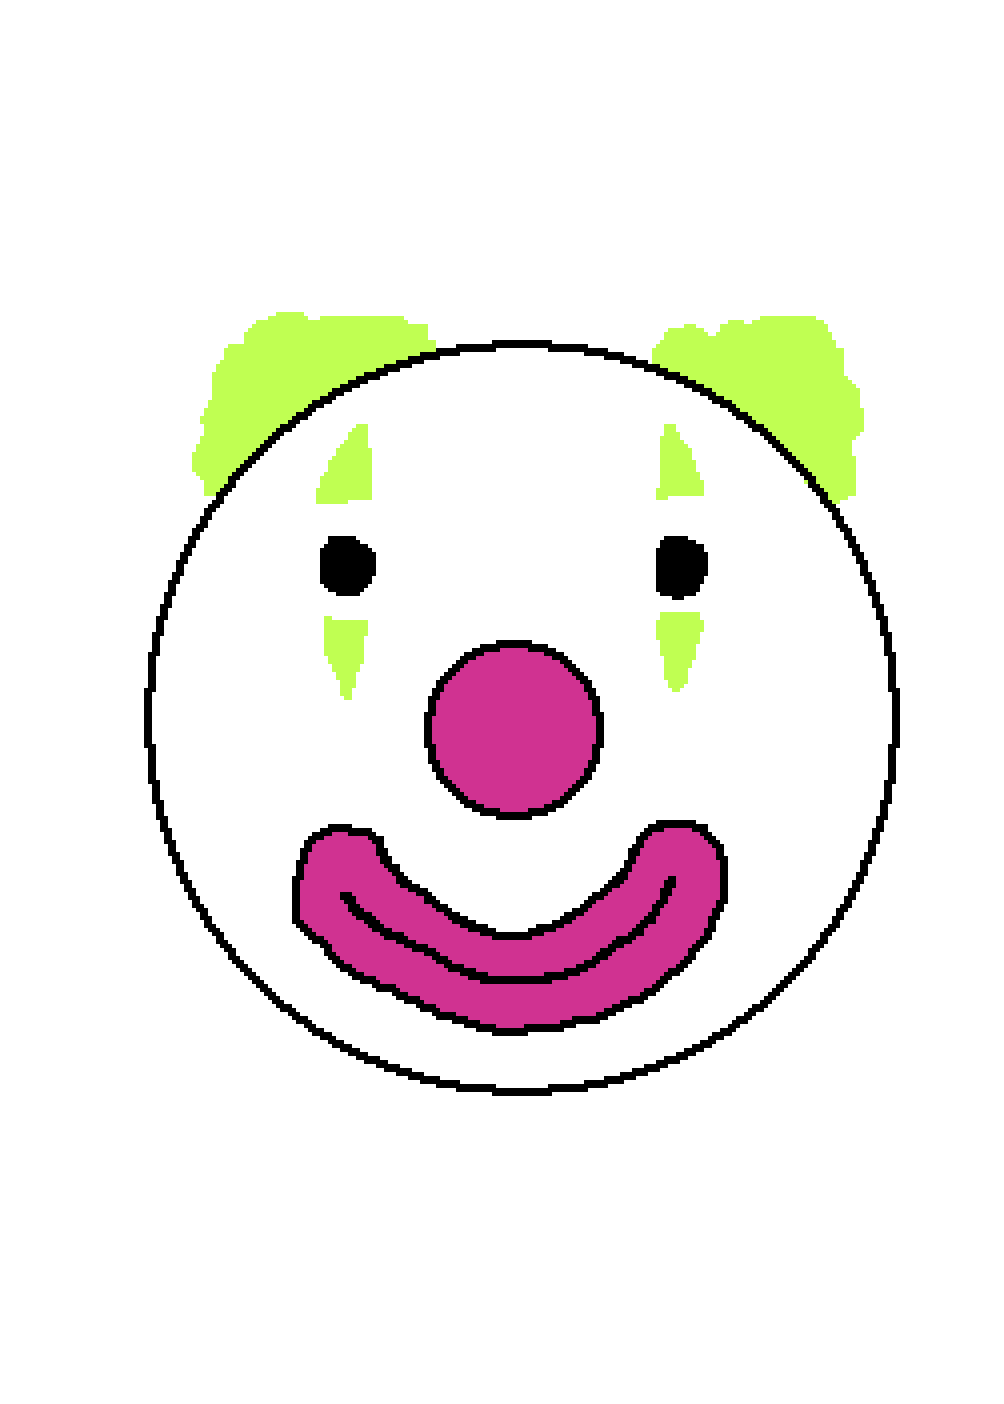
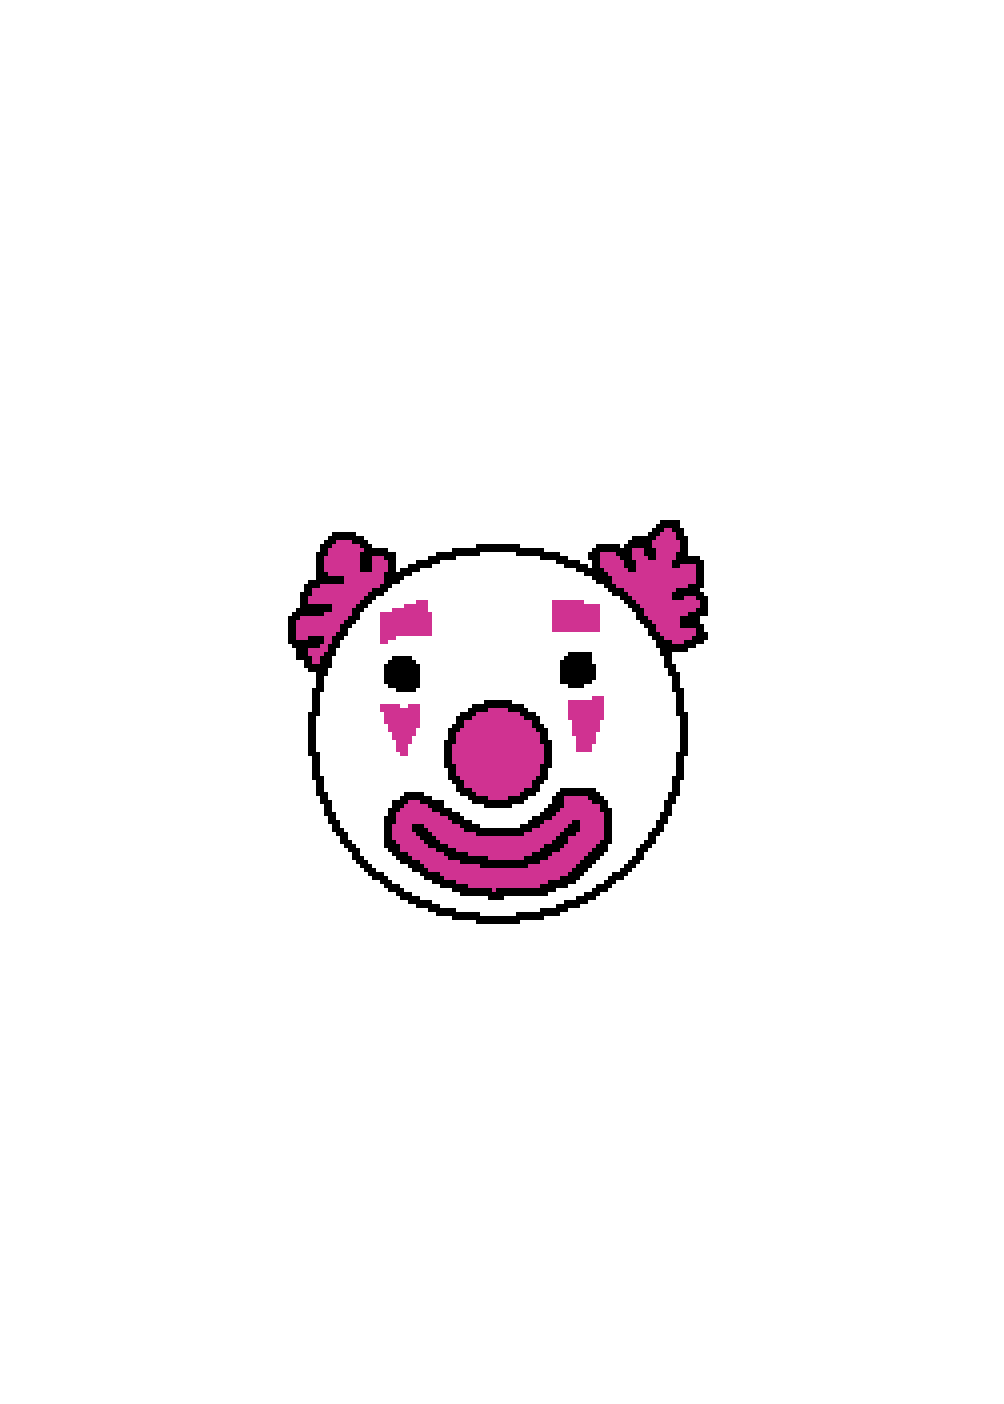
new joker image

diff --git a/script.js b/script.js
@@ -22,7 +22,7 @@ const SIMULTANEOUS_SLAP_THRESHOLD = 150; // Time threshold for simultaneous slap
 // Set this array to force specific starting conditions instead of random selection
 // Example: ['double', 'spades', 'six'] will force these as starting conditions
 // Leave empty [] for normal random selection
-const INITIAL_CONDITIONS_OVERRIDES = [];
+const INITIAL_CONDITIONS_OVERRIDES = ['joker'];
 
 // Confetti settings
 const CONFETTI_COUNT = 1500; // Number of confetti pieces
@@ -948,7 +948,7 @@ function createCardElement(card, index) {
         const jokerContent = document.createElement('div');
         jokerContent.className = 'joker-content';
         jokerContent.innerHTML = `
-            <div class="joker-emoji">🤡</div>
+            <img src="Card Images/joker-card.png" alt="Joker" class="joker-image">
         `;
         cardElement.appendChild(jokerContent);
         

diff --git a/styles.css b/styles.css
@@ -837,8 +837,10 @@ html.arcade #physics-canvas {
     gap: 10px;
 }
 
-.joker-emoji {
-    font-size: 4.2rem;
+.joker-image {
+    width: 120%;
+    height: auto;
+    object-fit: contain;
 }
 
 .joker-text {
